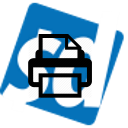
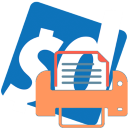
Added a tooltip and improved images

diff --git a/background.js b/background.js
@@ -11,9 +11,7 @@ chrome.pageAction.onClicked.addListener(function(tab) {
   }
 });
 
-/*
-Initialize the page action: if the url contains a forum id and the user is logged in, show the button.
-*/
+/* Initialize the page action: if the url contains a forum id and the user is logged in, show the button. */
 function initializePageAction(tab) {
   chrome.pageAction.hide(tab.id);
 
@@ -23,11 +21,15 @@ function initializePageAction(tab) {
       tab.id,
       {
         code: 'document.querySelector("#headerUsername").innerHTML'
-      }, 
+      },
       results => {
+        /* if found element with id #headerUsername, indicating the user is logged in */
         if (results.length > 0) {
-          //if found element with id headerUsername, indicating the user is logged in
           chrome.pageAction.show(tab.id);
+          chrome.pageAction.setTitle({
+            tabId: tab.id,
+            title: "Show Printable Version"
+          });
         }
       }
     );
@@ -35,9 +37,7 @@ function initializePageAction(tab) {
 }
 
 chrome.runtime.onInstalled.addListener(function() {
-  /*
-When first loaded, initialize the page action for all tabs.
-*/
+  /* When first loaded, initialize the page action for all tabs.*/
   chrome.tabs.query({}, tabs => {
     for (let tab of tabs) {
       initializePageAction(tab);
@@ -45,9 +45,7 @@ When first loaded, initialize the page action for all tabs.
   });
 });
 
-/*
-Each time a tab is updated, reset the page action for that tab.
-*/
+/* Each time a tab is updated, reset the page action for that tab. */
 chrome.tabs.onUpdated.addListener((id, changeInfo, tab) => {
   if (changeInfo.status === "complete") {
     initializePageAction(tab);
